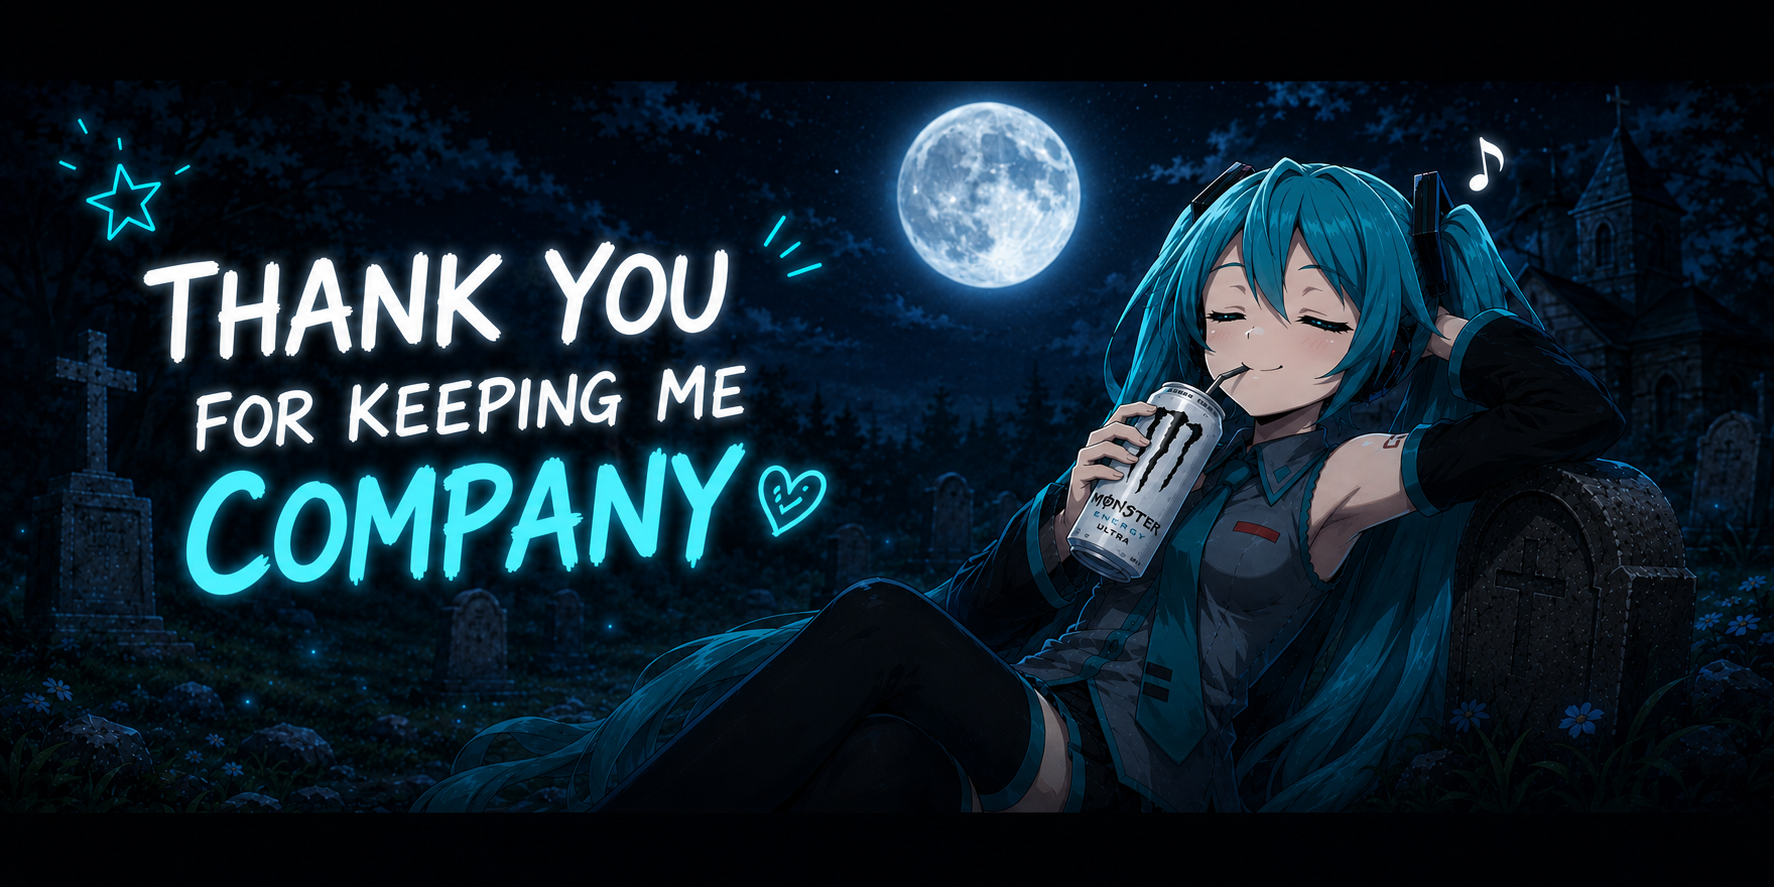
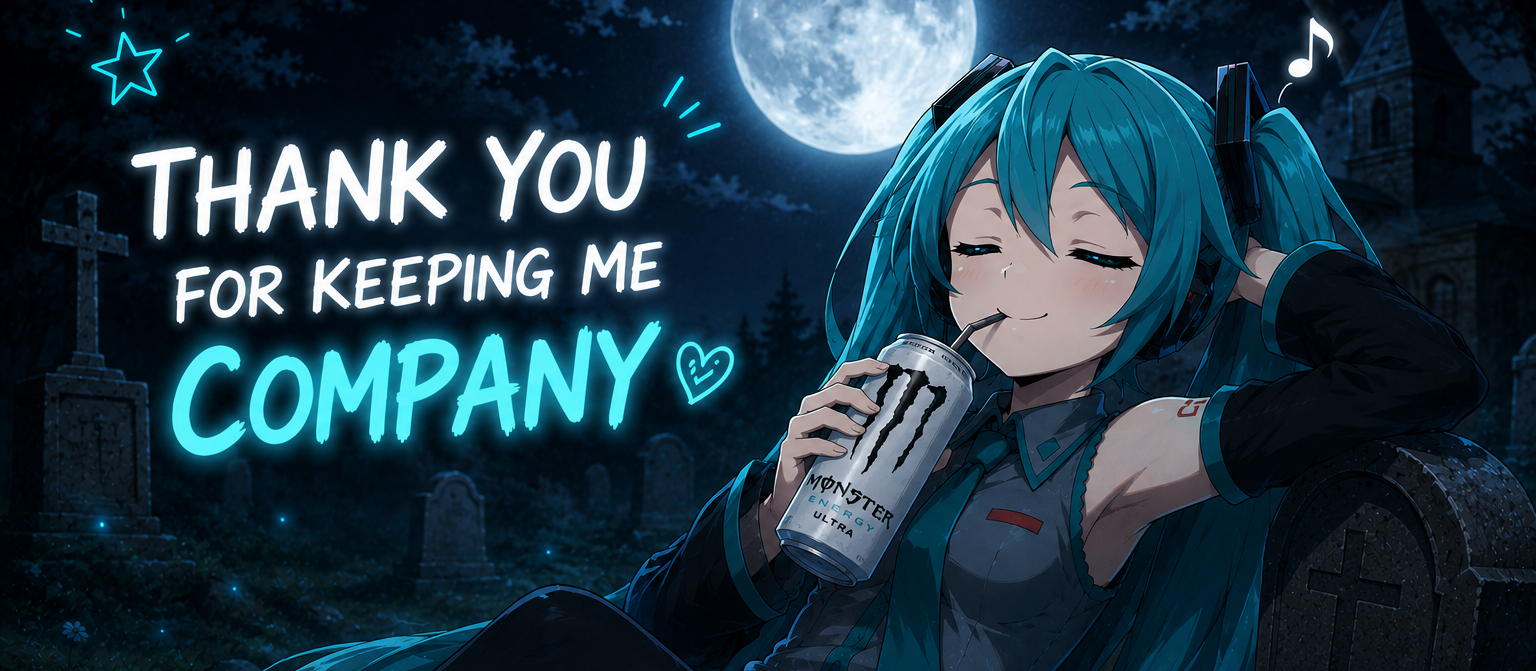
another image change

diff --git a/README.md b/README.md
@@ -1,4 +1,4 @@
-![]()
+![](assets/miku.png)
 # Hey, I'm Victor 👋
 
 I'm a self-taught developer, at least for now, who takes learning seriously.
